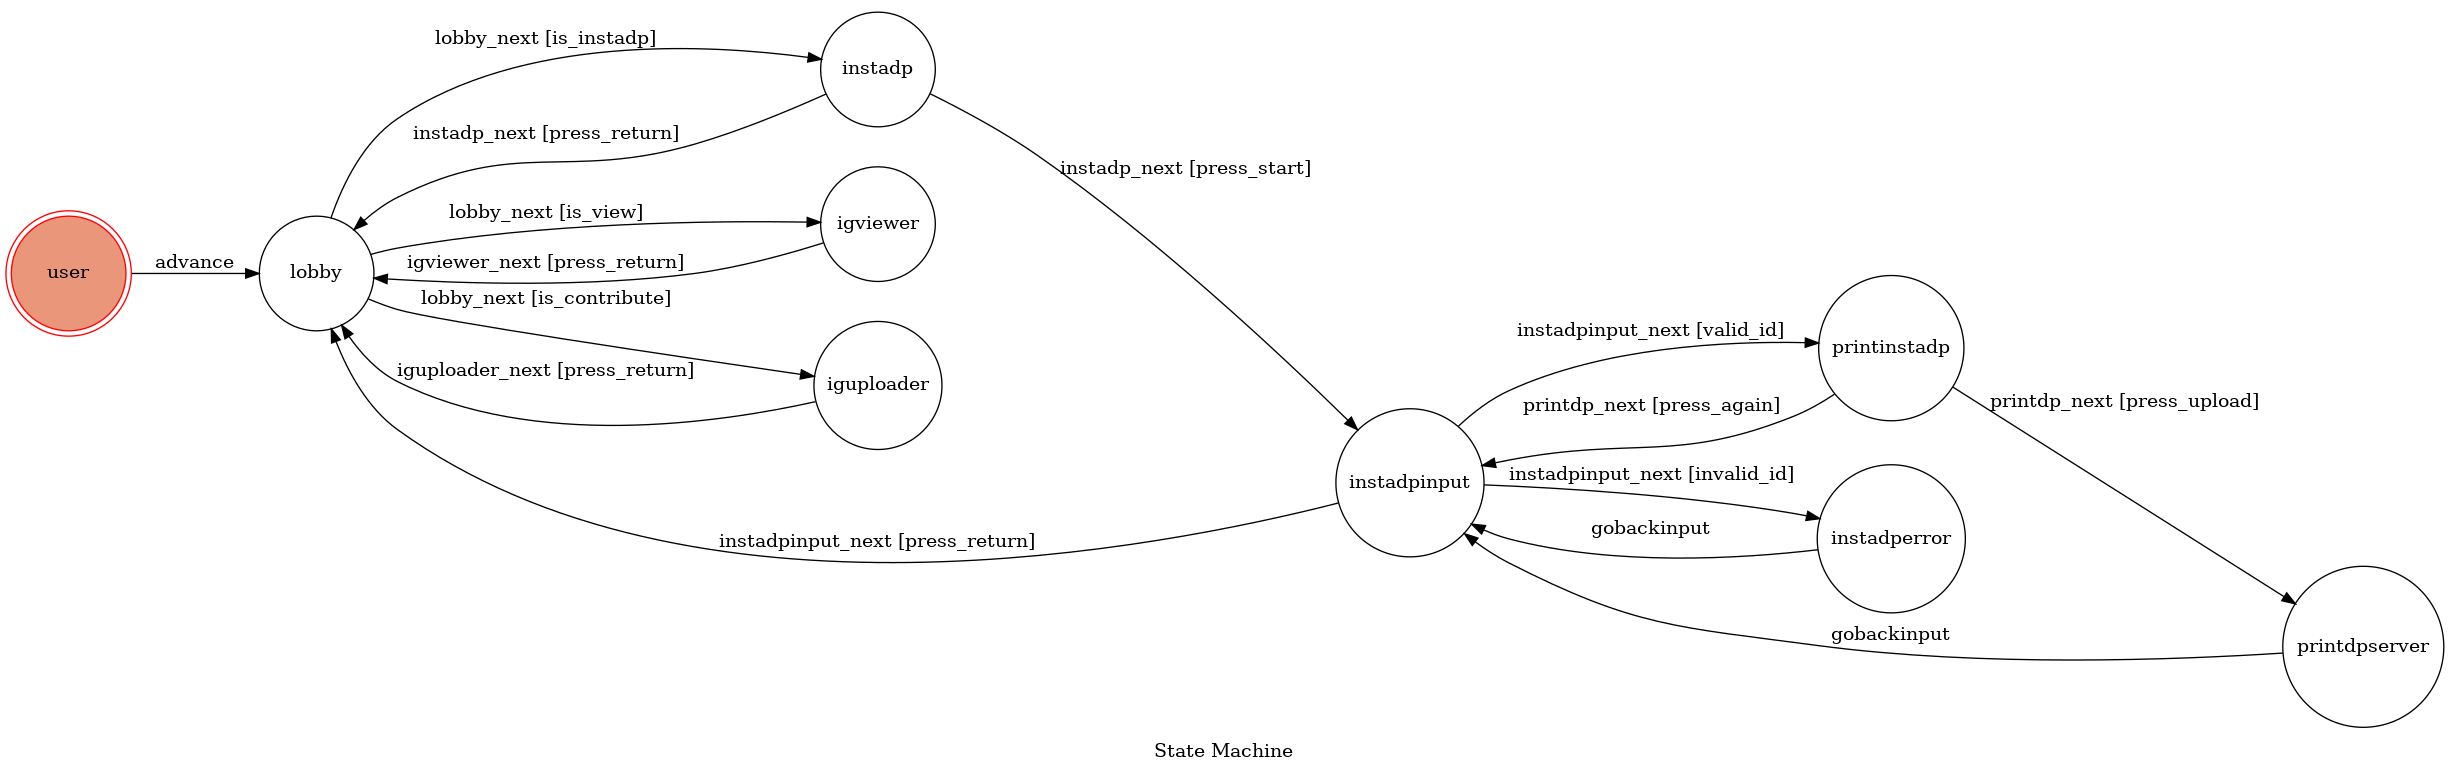
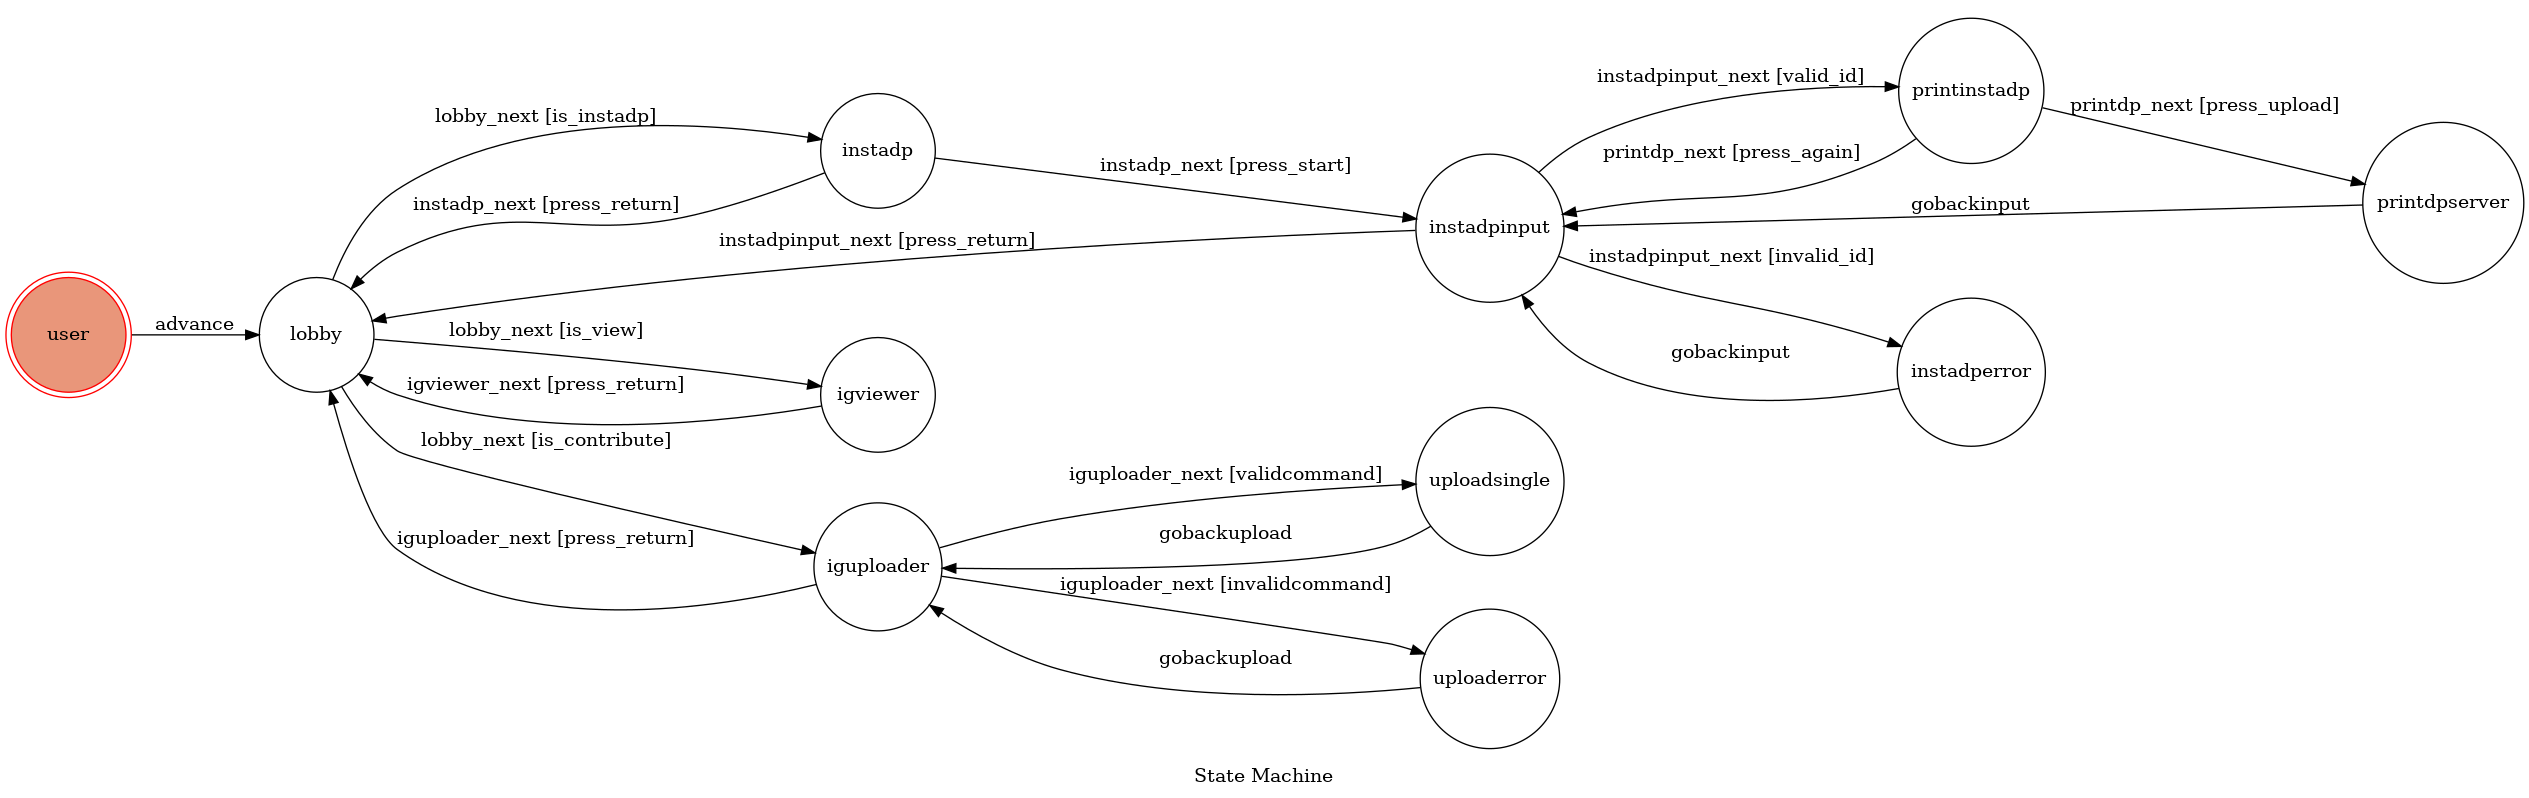
done upload single ig

diff --git a/messengerbot/igbot/fsm.py b/messengerbot/igbot/fsm.py
@@ -18,12 +18,19 @@ class TocMachine(GraphMachine):
         self.set_single_url()
 
     # set_single_url
-    def set_single_url(self, ig_id = "",url = ""):
+    def set_single_url(self, ig_id = "",url = "", bio = ""):
         self.url = url
+        self.bio = bio
         self.ig_id = ig_id
     
     def get_single_url(self):
         return self.ig_id, self.url
+
+    def set_command(self, valid = False):
+        self.valid = valid
+
+    def get_command(self):
+        return self.valid
 
     # ----------------Conditions--------------------
     # advance
@@ -62,7 +69,7 @@ class TocMachine(GraphMachine):
         print("Testing valid_id")
         print(text)
         image_url, bio = getImageUrl(text)
-        self.set_single_url(text, image_url)
+        self.set_single_url(text, image_url, bio)
         print(image_url)
         return image_url != ""
 
@@ -72,6 +79,24 @@ class TocMachine(GraphMachine):
         image_url, bio = getImageUrl(text)
         print(image_url)
         return image_url == "" and text != "返回"
+
+    def validcommand(self, sender_id, text):
+        print("Testing valid command")
+        self.set_command(False)
+        print(text)
+        textlist = text.split(' ')
+        if len(textlist) >= 4 or len(textlist) == 0:
+            return False
+        image_url, bio = getImageUrl(textlist[0])
+        if image_url:
+            self.set_command(True)
+            return True
+
+    def invalidcommand(self, sender_id, text):
+        print("Testing invalid command")
+        tmp = self.get_command()
+        self.set_command(False)
+        return not tmp
 
     # ----------------States--------------------
 
@@ -108,7 +133,7 @@ class TocMachine(GraphMachine):
     # instadperror
     def on_enter_printdpserver(self, sender_id, text):
         api = MessageAPI(sender_id)
-        ig_id, url = self.get_single_url()
+        ig_id, url, bio = self.get_single_url()
         entry = Instagrammer.objects.filter(id = ig_id)
         if entry.exists():
             api.text_message("資料已經在資料庫了，棒棒的，看來妹子很有名～")
@@ -117,7 +142,7 @@ class TocMachine(GraphMachine):
                 id = ig_id,
                 genre = "",
                 country = "",
-                content = "",
+                content = bio,
                 url = "https://www.instagram.com/%s" % ig_id,
                 image_url = url
             )
@@ -136,3 +161,35 @@ class TocMachine(GraphMachine):
         api = MessageAPI(sender_id)
         api.button_message("iguploader Intro", messages['returnlobby_button'])
 
+    def on_enter_uploadsingle(self, sender_id, text):
+        api = MessageAPI(sender_id)
+        genre = "無"
+        country = "無"
+        textlist = text.split(' ')
+        if len(textlist) == 3:
+            genre = textlist[1]
+            country = textlist[2]
+        elif len(textlist) == 2:
+            genre = textlist[1]
+
+        entry = Instagrammer.objects.filter(id = textlist[0])
+        if entry.exists():
+            api.text_message("資料已經在資料庫了，棒棒的，看來妹子很有名～")
+        else:
+            image_url, bio = getImageUrl(textlist[0])
+            Instagrammer.objects.create(
+                id = textlist[0],
+                genre = genre,
+                country = country,
+                content = bio,
+                url = "https://www.instagram.com/%s" % textlist[0],
+                image_url = image_url
+            )
+        entry = Instagrammer.objects.get(id = textlist[0])
+        api.profileTemplatesSingle(entry)
+        self.gobackupload(sender_id, text)
+
+    def on_enter_uploaderror(self, sender_id, text):
+        api = MessageAPI(sender_id)
+        api.text_message("格式錯誤請重新再試")
+        self.gobackupload(sender_id, text)

diff --git a/messengerbot/igbot/views.py b/messengerbot/igbot/views.py
@@ -27,7 +27,9 @@ machine = TocMachine(
         'instadperror',
         'printdpserver',
         'igviewer',
-        'iguploader'
+        'iguploader',
+        'uploadsingle',
+        'uploaderror'
     ],
     transitions=[
         {
@@ -116,6 +118,28 @@ machine = TocMachine(
             'source': 'iguploader',
             'dest': 'lobby',
             'conditions': 'press_return'
+        },
+        {
+            'trigger': 'iguploader_next',
+            'source': 'iguploader',
+            'dest': 'uploadsingle',
+            'conditions': 'validcommand'
+        },
+        {
+            'trigger': 'iguploader_next',
+            'source': 'iguploader',
+            'dest': 'uploaderror',
+            'conditions': 'invalidcommand'
+        },
+        {
+            'trigger': 'gobackupload',
+            'source': 'uploadsingle',
+            'dest': 'iguploader',
+        },
+        {
+            'trigger': 'gobackupload',
+            'source': 'uploaderror',
+            'dest': 'iguploader',
         },
     ],
     initial='user',
